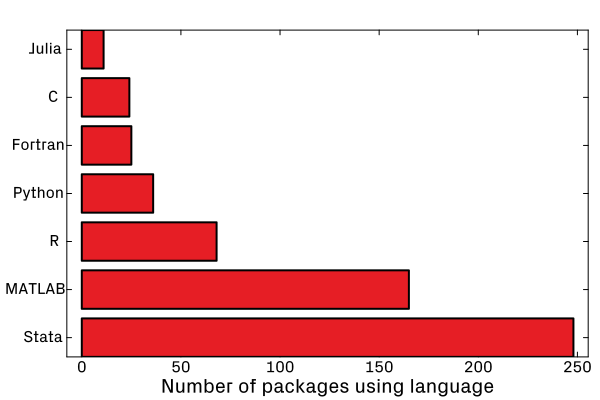
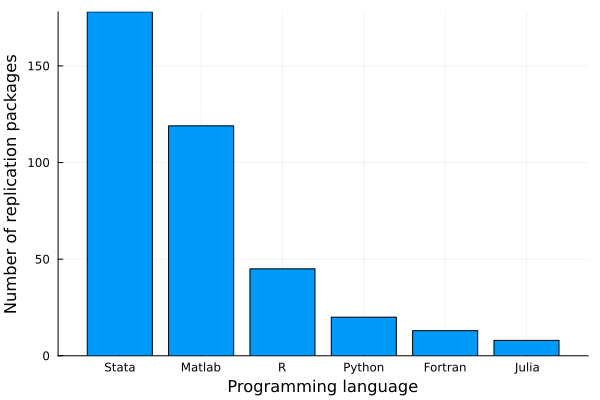
Reproduce figure from new data

diff --git a/paper/paper.tex b/paper/paper.tex
@@ -12,9 +12,9 @@ Economists overwhelmingly rely on proprietary data analysis languages such as St
 
 \section{Introduction}
 
-Research computing is central to the scientific workflow of economists. We studied 357 replication packages submitted to the Review of Economic Studies in recent years to understand what programming languages economists use and how.
+Research computing is central to the scientific workflow of economists. When designing a new research software tool, it is important to understand the needs and preferences of the target audience. We studied 245 replication packages submitted to the Review of Economic Studies between October 2020 and November 2024 to understand what programming languages economists use and how.
 
-Figure \ref{fig:languages} shows the number of packages that contain code in various languages. Stata is by far the most popular, used in 72\% of packages, followed by MATLAB with 41\%. In contrast, only 3\% of replication packages contain any Julia code, which is even less prevalent than Fortran and C or C++.
+Figure \ref{fig:languages} shows the number of packages that contain code in various languages. Stata is by far the most popular, used in 73\% of packages, followed by MATLAB with 49\%. In contrast, only 3\% of replication packages contain any Julia code, which is even less prevalent than Fortran.
 
 \begin{figure}[h]
 \centering
